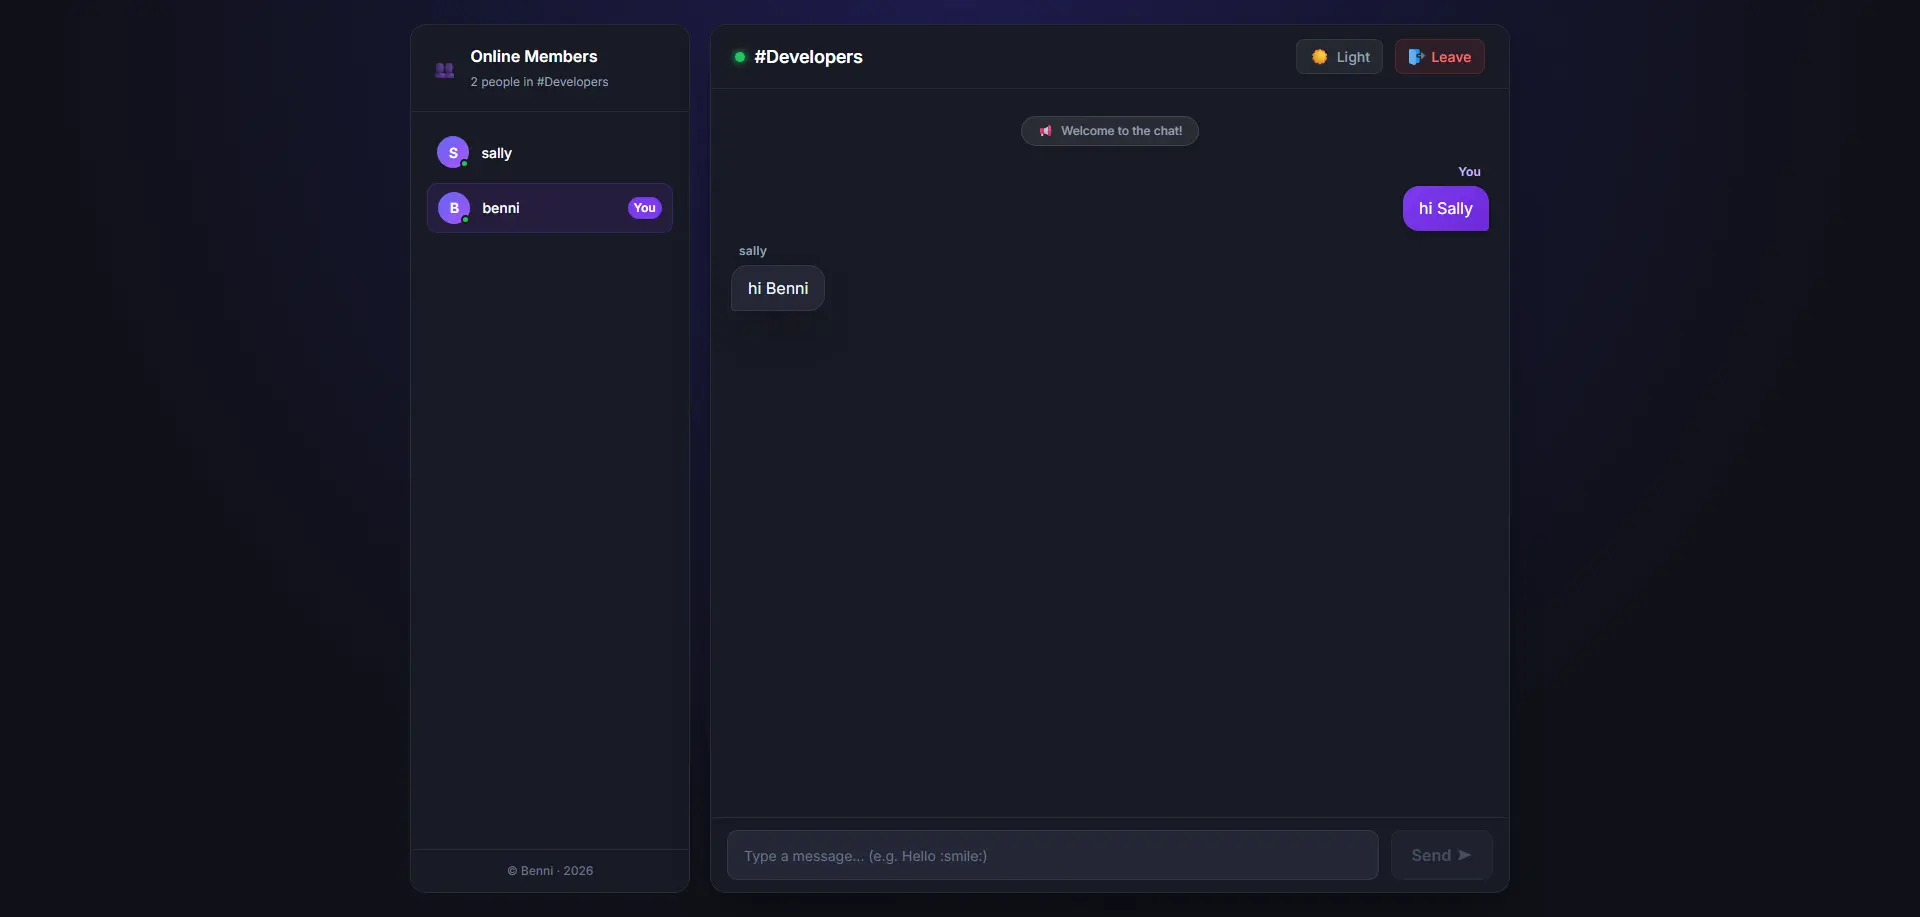
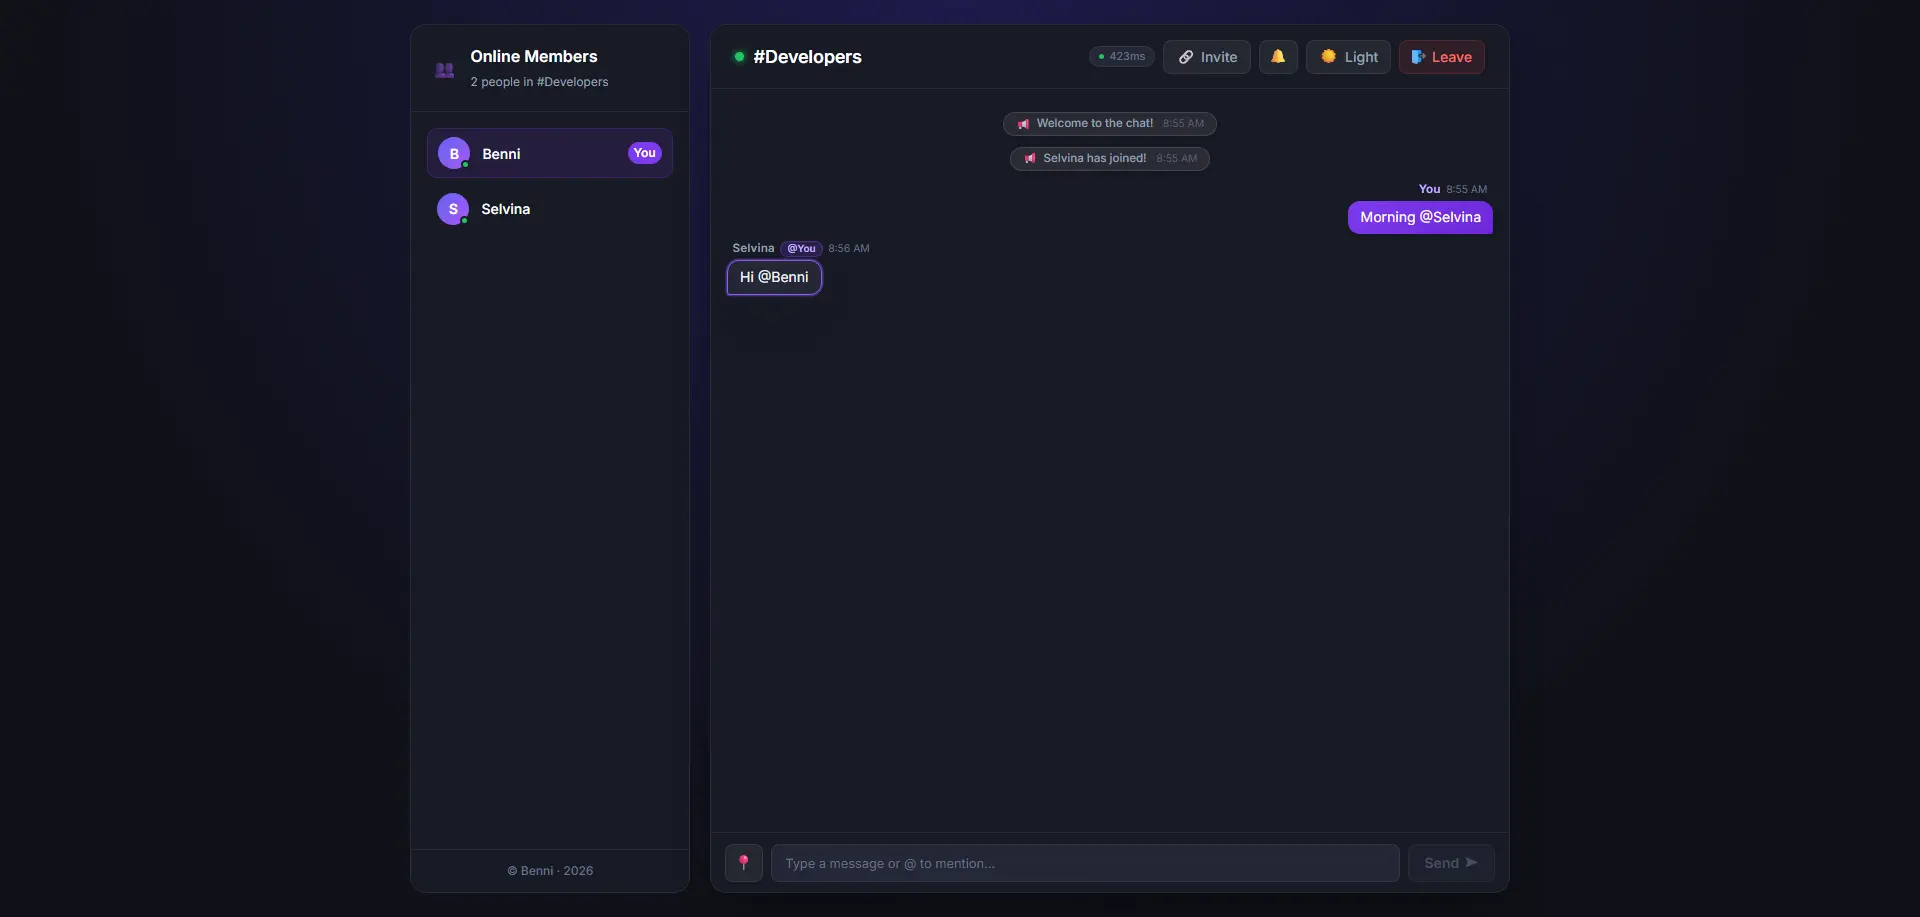
feat: optimize image caching, update showcase content, and improve mobile layout

diff --git a/src/data/showcase.ts b/src/data/showcase.ts
@@ -43,11 +43,11 @@ export const showcaseData: ProjectItem[] = [
     image: chitChat,
     alt: 'chit-chat',
     features: [
-      'Instant room-based messaging platform built with React 18, Node.js & Socket.IO',
-      'Bi-directional WebSocket broadcasting with live user rosters',
-      'Smart message grouping, consecutive bubble collapsing, and native emoji shortcuts',
-      'Persistent dark/light theme switching with automatic system preference detection',
-      'Clean session management via React Context with responsive member drawer',
+      'Instant room-based messaging platform built with React 19, Vite 8 & Socket.IO v4',
+      'Real-time typing indicators, GPS location sharing & active online member drawer',
+      'User mentions (@You), Web Audio chime alerts, and live server latency monitor',
+      'Smart message grouping, consecutive bubble collapsing & native emoji shortcuts',
+      'Persistent dark/light theme switching with clean Context & sessionStorage state',
     ],
   },
   {
@@ -65,7 +65,7 @@ export const showcaseData: ProjectItem[] = [
   },
   {
     title: 'Story Life',
-    url: 'https://bennibennibenni.github.io/story-life-app/',
+    url: 'https://story-life.benni.my.id/',
     image: storyLife,
     alt: 'story-life',
     features: [
@@ -77,7 +77,7 @@ export const showcaseData: ProjectItem[] = [
   },
   {
     title: 'Eatery Catalogue',
-    url: 'https://eatery-catalogue.netlify.app/',
+    url: 'https://eatery.benni.my.id/',
     image: eatery,
     alt: 'eatery-catalogue',
     features: [
@@ -89,7 +89,7 @@ export const showcaseData: ProjectItem[] = [
   },
   {
     title: 'Covid Case Tracker',
-    url: 'https://covid-case-tracker.vercel.app/',
+    url: 'https://covid-case-tracker.benni.my.id/',
     image: covidTracker,
     alt: 'covid-case-tracker',
     features: [
@@ -101,7 +101,7 @@ export const showcaseData: ProjectItem[] = [
   },
   {
     title: 'Bookshelf Webstorage',
-    url: 'https://bennibennibenni.github.io/bookshelf-webstorage/',
+    url: 'https://bookshelf-webstorage.benni.my.id/',
     image: bookshelfWebstorage,
     alt: 'bookshelf-webstorage',
     features: [
@@ -113,7 +113,7 @@ export const showcaseData: ProjectItem[] = [
   },
   {
     title: 'Simple Vanilla Website',
-    url: 'https://bennibennibenni.github.io/simple-vanilla-website/',
+    url: 'https://simple-vanilla.benni.my.id/',
     image: vanillaWebsite,
     alt: 'simple-vanilla-website',
     features: [

diff --git a/src/components/articles/showcase-article.tsx b/src/components/articles/showcase-article.tsx
@@ -55,9 +55,13 @@ export const ShowcaseArticle: React.FC<ShowcaseArticleProps> = ({
         {showcaseData.map((project, index) => (
           <div key={project.title} className='project showcase-item'>
             <h3 className='project-name'>
-              <a href={project.url} target='_blank' rel='noopener noreferrer'>
-                {project.title}
-              </a>
+              {project.url ? (
+                <a href={project.url} target='_blank' rel='noopener noreferrer'>
+                  {project.title}
+                </a>
+              ) : (
+                <span>{project.title}</span>
+              )}
             </h3>
             <NextImage
               useSkeleton

diff --git a/src/types/portfolio.ts b/src/types/portfolio.ts
@@ -28,7 +28,7 @@ export interface ExperienceItem {
 
 export interface ProjectItem {
   title: string;
-  url: string;
+  url?: string;
   image: StaticImageData;
   alt: string;
   features: string[];
